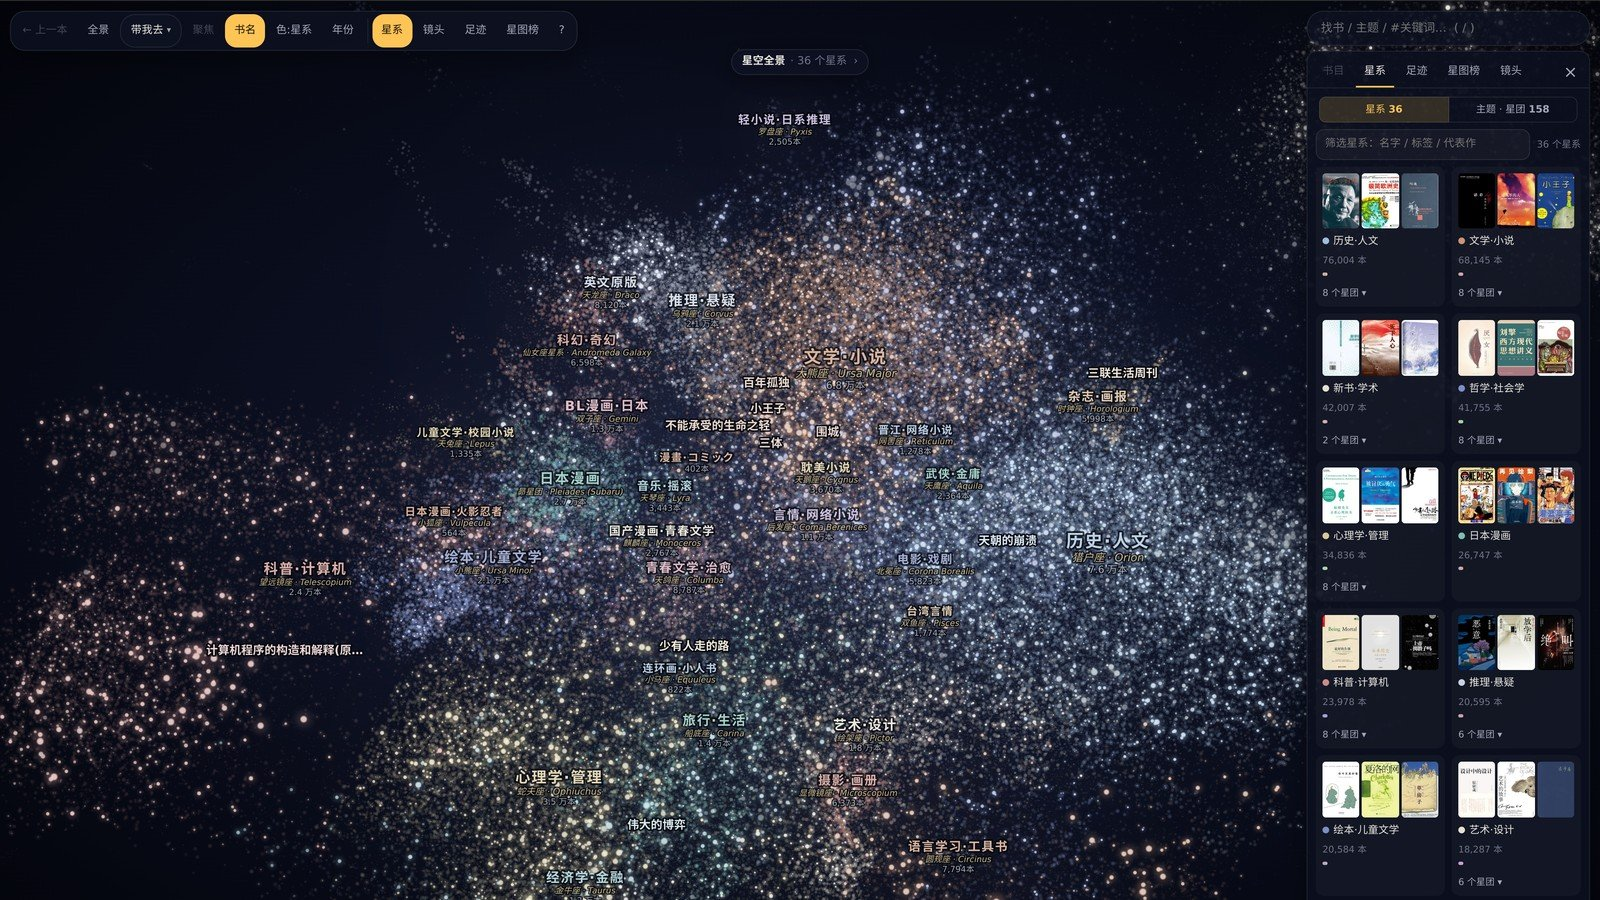
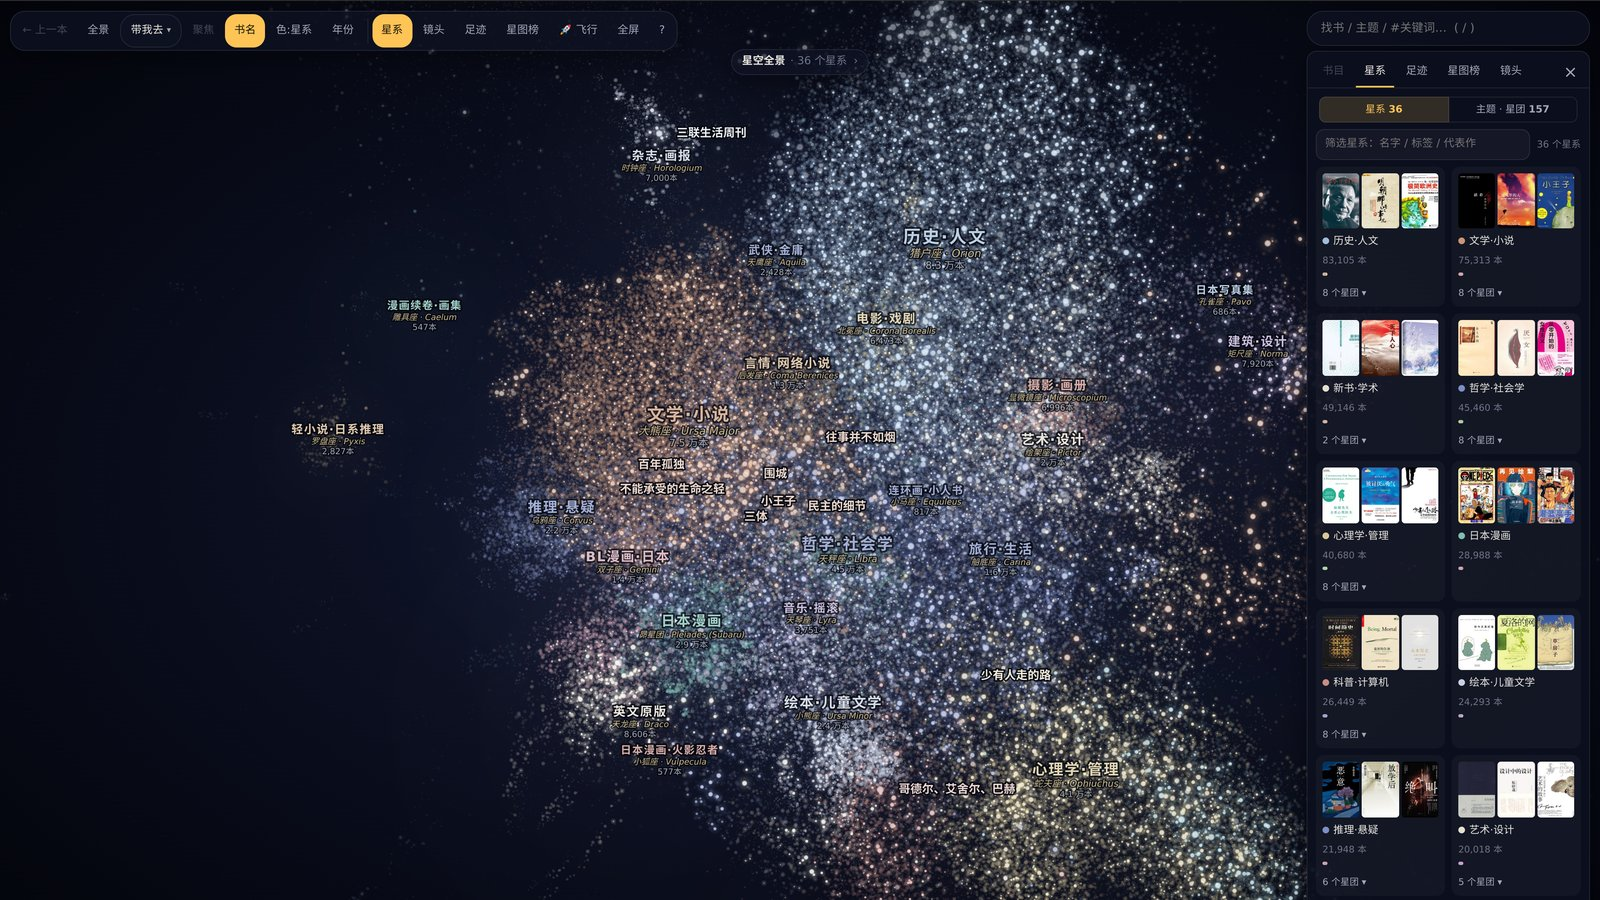
deploy: lanbing510/lanbing510-blog@8f34a5e238fb0be5f6edd81267c7c62284a83b20

diff --git a/2026/10/19/WanShuTiaoYiGalaxy2.html b/2026/10/19/WanShuTiaoYiGalaxy2.html
@@ -8,7 +8,7 @@
   <meta name="keywords" content="万书挑一，书海星空书单，好书指数，书单，豆瓣">
 
 
-  <meta name="description " content="年度读书总结：导入豆瓣书架，读过的书在 54 万本书的星空里按时间一本本亮起来、一键录成视频，再长成一棵阅读年轮，生成分享海报。">
+  <meta name="description " content="年度读书总结：导入豆瓣书架，读过的书在 60 万本书的星空里按时间一本本亮起来、一键录成视频，再长成一棵阅读年轮，生成分享海报。">
 
 
 <!--Https -> Http, Https Will Reuslt In Errors With Busuanzi -->
@@ -3030,9 +3030,9 @@ var _hmt = _hmt || [];
       
       <p>年底了，很多人在做年度总结。读过的书，也可以有一份。</p>
 
-<p>下面这段是我十年读过的书：在 54 万本书组成的星空里，按读完的时间一本本亮起来。它是一键录出来的，原片是 1920×1080 的视频，可以直接发朋友圈。</p>
+<p>下面这段是我这十几年读过的书：在 60 万本书组成的星空里，按读完的时间一本本亮起来。它是一键录出来的，原片是 1920×1080 的视频，可以直接发朋友圈。</p>
 
-<p><img src="/public/img/posts/wanshutiaoyi/galaxy2/rec169g_v4.webp" width="800px"> </img></p>
+<p><img src="/public/img/posts/wanshutiaoyi/galaxy2/rec169g_1101.webp" width="800px"> </img></p>
 
 <p>还有一棵阅读年轮：一年一圈，读得多的那年颜色就深。这是我十几年的书架，一年一年长出来的样子：</p>
 
@@ -3090,27 +3090,27 @@ var _hmt = _hmt || [];
 
 <h2>第三步：在星空里回放你读过的书</h2>
 
-<p>书海星空是一张 54 万本书的星图（后面细说）。导入书架之后，打开镜头面板的「我的书架」，读过的书在星空里点亮、画上金色的圈。</p>
+<p>书海星空是一张 60 万本书的星图（后面细说）。导入书架之后，打开镜头面板的「我的书架」，读过的书在星空里点亮、画上金色的圈。</p>
 
 <p><img src="/public/img/posts/wanshutiaoyi/galaxy2/shelf_read.jpg" width="800px"> </img></p>
 
-<p>我导入了 721 本，706 本在星空里。读过的 325 本分布在 19 个星系，最常去的是心理学·管理（蛇夫座）和科普·计算机（望远镜座）。「我的」页面还有一张「我的星座」卡片，告诉你读过的书最常落在哪个星座：</p>
+<p>我导入了 723 本，709 本在星空里。读过的 325 本分布在 19 个星系，最常去的是心理学·管理（蛇夫座）和科普·计算机（望远镜座）。「我的」页面还有一张「我的星座」卡片，告诉你读过的书最常落在哪个星座：</p>
 
 <p><img src="/public/img/posts/wanshutiaoyi/galaxy2/r_me_constellation.jpg" width="800px"> </img></p>
 
 <p>面板里有一根时间滑块，拖动它，书按标记年份一年年亮起来。点「按时间回放」，镜头按你标记的日期，一本一本飞过去。走过的路线留在星空里，越早的越淡；右上角是年份，下面是那片星系的星座名。</p>
 
-<p><img src="/public/img/posts/wanshutiaoyi/galaxy2/replay.gif" width="800px"> </img></p>
+<p><img src="/public/img/posts/wanshutiaoyi/galaxy2/replay.webp" width="800px"> </img></p>
 
 <p>回放里能看出一个人读书的轨迹：我 2015 年那一段，镜头在蛇夫座（心理学·管理）和望远镜座（科普·计算机）之间来回跳，一会儿《影响力》，一会儿《C++编程思想》。</p>
 
 <p><strong>回放可以一键录成视频</strong>：竖屏、方形、横屏三种画幅，「精华」挑约 30 秒的代表书，「完整」把区间里的书都走一遍。镜头可以选「全局」（开头那段，整片星空不动，书一本本亮起来）或「跟随」（和现场回放一样一本本飞）。左下角是封面、书名和读过的日期，右上角是年份和星座名。录好直接下载成 MP4，发朋友圈或微信群都行。</p>
 
-<p><img src="/public/img/posts/wanshutiaoyi/galaxy2/rec169f_v4.webp" width="800px"> </img></p>
+<p><img src="/public/img/posts/wanshutiaoyi/galaxy2/rec169f_1101.webp" width="800px"> </img></p>
 
-<h2>一键分享：一个链接，一张海报</h2>
+<h2>一键分享：一个链接，一张「星空年轮」海报</h2>
 
-<p>年轮页右上角点「分享」，会生成一个公开链接和海报：横版是发链接时的预览卡片，另有一张竖版的，适合发朋友圈和小红书。海报上有二维码，扫码就能看到你的年轮（知乎不让图里放二维码，下面这张示意图把它去掉了）。</p>
+<p>年轮页右上角点「分享」，会生成一个公开链接和一张「星空年轮」海报：左边是你读过的书在 60 万本书的星空里的位置，右边是年轮和几个数字。横版是发链接时的预览卡片，另有一张竖版的，适合发朋友圈和小红书。海报上有二维码，扫码就能看到你的年轮（知乎不让图里放二维码，下面这张示意图把它去掉了）。没开书海星空的账号，海报只有年轮，叫「阅读年轮」。</p>
 
 <p><img src="/public/img/posts/wanshutiaoyi/galaxy2/r_poster_landscape_zh.jpg" width="800px"> </img></p>
 
@@ -3118,21 +3118,21 @@ var _hmt = _hmt || [];
 
 <h2>这片星空本身，也值得逛一逛</h2>
 
-<p>书海星空把豆瓣上几十万本书之间「读过这本的人也喜欢」的关系拿出来，让读者重合的书互相吸引，算出每本书在三维空间里的位置，画成一张能飞进去逛的星图。现在是 54 万本书、462 万条关系。</p>
+<p>书海星空把豆瓣上几十万本书之间「读过这本的人也喜欢」的关系拿出来，让读者重合的书互相吸引，算出每本书在三维空间里的位置，画成一张能飞进去逛的星图。现在是 60 万本书、511 万条关系。</p>
 
 <p><img src="/public/img/posts/wanshutiaoyi/galaxy2/overview.jpg" width="800px"> </img></p>
 
-<p><strong>36 个星系，每个都有星座名。</strong>读者口味相近的书会自己聚成一团：历史·人文是猎户座，文学·小说是大熊座，心理学·管理是蛇夫座，科普·计算机是望远镜座，2020 年以后的新书聚成的那一团是煤袋星云。点工具栏的「星系」，右边是 36 张卡片，大星系下面还能展开几个「星团」（一共 158 个），点星团，镜头直接飞过去。</p>
+<p><strong>36 个星系，每个都有星座名。</strong>读者口味相近的书会自己聚成一团：历史·人文是猎户座，文学·小说是大熊座，心理学·管理是蛇夫座，科普·计算机是望远镜座，2020 年以后的新书聚成的那一团是煤袋星云。点工具栏的「星系」，右边是 36 张卡片，大星系下面还能展开几个「星团」（一共 157 个），点星团，镜头直接飞过去。</p>
 
 <p><img src="/public/img/posts/wanshutiaoyi/galaxy2/guide_cards.jpg" width="800px"> </img></p>
 
-<p><strong>AI 主题镜头：整片星空只为一个主题亮。</strong>星系是按「谁和谁一起被读」聚出来的，不一定等于书讲的是什么。所以我让 AI 读了 32 万本有评分的书，按统一的标准打上主题。点工具栏的「镜头」，选一个主题，属于它的书全部亮起，其余的压暗成背景。选「心理学」，亮起来 5,697 本，大半挤在蛇夫座；换成「计算机与技术」，亮的是左边望远镜座那一片；换成「历史」，亮的是右边猎户座。</p>
+<p><strong>AI 主题镜头：整片星空只为一个主题亮。</strong>星系是按「谁和谁一起被读」聚出来的，不一定等于书讲的是什么。所以我让 AI 读了 32 万本有评分的书，按统一的标准打上主题。点工具栏的「镜头」，选一个主题，属于它的书全部亮起，其余的压暗成背景。选「心理学」，亮起来 5,721 本，大半挤在右下角的蛇夫座（心理学·管理）；换成「计算机与技术」，亮起来 7,262 本，挤在蛇夫座下方那一小片；换成「历史」，亮起来 2.9 万本，铺满上方的猎户座（历史·人文）。</p>
 
-<p><img src="/public/img/posts/wanshutiaoyi/galaxy2/lens.gif" width="800px"> </img></p>
+<p><img src="/public/img/posts/wanshutiaoyi/galaxy2/lens.webp" width="800px"> </img></p>
 
-<p><strong>搜一本书，顺着「也读」一路飞。</strong>右上角搜「三体」，镜头飞到它身边，被它推荐、推荐它的几百本书同时连上线，右边弹出书卡，下面是「读过的人也读」前 5 本。点其中任何一本，镜头就飞过去。我从《三体》点到《球状闪电》，再点到《超新星纪元》，三次点击走完了刘慈欣的几本代表作。</p>
+<p><strong>搜一本书，顺着「也读」一路飞。</strong>右上角搜「三体」，镜头飞到它身边，被它推荐、推荐它的几百本书同时连上线，右边弹出书卡，下面是「读过的人也读」前 5 本。点其中任何一本，镜头就飞过去。我从《三体》点到《球状闪电》，再点到《流浪地球》，三次点击走完了刘慈欣的几本代表作。</p>
 
-<p><img src="/public/img/posts/wanshutiaoyi/galaxy2/search.gif" width="800px"> </img></p>
+<p><img src="/public/img/posts/wanshutiaoyi/galaxy2/search.webp" width="800px"> </img></p>
 
 <p><strong>飞行模式：开着飞船在书海里逛。</strong>点工具条上的「🚀 飞行」（电脑按 V 也行），鼠标转向，WASD 驾驶，按住 Shift 加速。速度跟着周围星星的疏密走：外围空旷的地方飞得快，一进星团就自动慢下来，书名一本本从身边掠过。准星对准一颗星，就会弹出书名、所在星系和评分。手机上也能飞，电脑上体验最好。</p>
 
@@ -3140,7 +3140,7 @@ var _hmt = _hmt || [];
 
 <p><strong>看星空一年年长出来。</strong>工具栏点「年份」，按「播放」，星空从 1900 年开始逐年点亮。最早成片亮起来的是连环画·小人书和武侠·金庸，最晚的是晋江·网络小说，大部分出版在 2022 年前后（这里是豆瓣那个版本的出版年）。</p>
 
-<p><img src="/public/img/posts/wanshutiaoyi/galaxy2/year.gif" width="800px"> </img></p>
+<p><img src="/public/img/posts/wanshutiaoyi/galaxy2/year.webp" width="800px"> </img></p>
 
 <p>图里没有编辑挑选，也没有推荐算法替你猜。每条线都来自豆瓣书页上「喜欢读这本书的人也喜欢」那一栏，位置是这些关系自己推出来的，星系和星团是关系最紧的书自己聚出来的。AI 主题是另一套独立的标签，只用来点亮和上色，不影响书的位置。</p>
 

diff --git a/2026/10/16/WanShuTiaoYiRings.html b/2026/10/16/WanShuTiaoYiRings.html
@@ -3030,7 +3030,7 @@ var _hmt = _hmt || [];
       
       <p>在豆瓣标了十几年书，「读过」「想读」攒了几百本，但我从来没见过它们放在一起是什么样子。豆瓣给的是一页页的列表，按时间倒序，翻到第 20 页就不想翻了。</p>
 
-<p>所以我给万书挑一做了两样东西：一个是<strong>阅读年轮</strong>，一年一圈，读得多的那年颜色就深；一个是<strong>书海星空里的「我」</strong>，把读过的书在 54 万本书组成的星图里一颗颗点亮，再按时间顺序飞一遍，还能录成视频。</p>
+<p>所以我给万书挑一做了两样东西：一个是<strong>阅读年轮</strong>，一年一圈，读得多的那年颜色就深；一个是<strong>书海星空里的「我」</strong>，把读过的书在 60 万本书组成的星图里一颗颗点亮，再按时间顺序飞一遍，还能录成视频。</p>
 
 <p>先看结果，这是我自己的书架，一年一年长出来的样子：</p>
 
@@ -3065,13 +3065,13 @@ var _hmt = _hmt || [];
 
 <p>还有一个有点扎心的栏目叫「想读最久还没读」。我的第一名是《编码的奥秘》，2015 年 4 月标的想读，已经 11 年了。</p>
 
-<h2>空间：在 54 万本书的星空里找到自己</h2>
+<h2>空间：在 60 万本书的星空里找到自己</h2>
 
-<p>书海星空把豆瓣上「喜欢这本书的人也喜欢」的关系连起来，54 万本书自己聚成了 36 个星系，每个星系配了一个星座名。经常被一起读的书会挨在一起，所以星系是读者「读」出来的，不是谁分的类。</p>
+<p>书海星空把豆瓣上「喜欢这本书的人也喜欢」的关系连起来，60 万本书自己聚成了 36 个星系，每个星系配了一个星座名。经常被一起读的书会挨在一起，所以星系是读者「读」出来的，不是谁分的类。</p>
 
 <p><img src="/public/img/posts/wanshutiaoyi/rings/g2_overview.jpg" width="800px"> </img></p>
 
-<p>导入书架之后，打开镜头面板的「我的书架」，读过的书在星空里点亮、画上金色的圈。我导入了 721 本，706 本在星空里；读过的 325 本分布在 19 个星系，最常去的是心理学·管理（蛇夫座）和科普·计算机（望远镜座）。</p>
+<p>导入书架之后，打开镜头面板的「我的书架」，读过的书在星空里点亮、画上金色的圈。我导入了 723 本，709 本在星空里；读过的 325 本分布在 19 个星系，最常去的是心理学·管理（蛇夫座）和科普·计算机（望远镜座）。</p>
 
 <p><img src="/public/img/posts/wanshutiaoyi/rings/g2_shelf_read.jpg" width="800px"> </img></p>
 
@@ -3081,19 +3081,19 @@ var _hmt = _hmt || [];
 
 <p>最好玩的是<strong>按时间回放</strong>：镜头按你标记的日期，一本一本飞过去。走过的路线留在星空里，越早的越淡；右上角是年份，下面是那片星系的星座名。</p>
 
-<p><img src="/public/img/posts/wanshutiaoyi/rings/g2_replay.gif" width="800px"> </img></p>
+<p><img src="/public/img/posts/wanshutiaoyi/rings/g2_replay.webp" width="800px"> </img></p>
 
 <p>回放里能看出一个人读书的轨迹：我 2015 年那一段，镜头在蛇夫座（心理学·管理）和望远镜座（科普·计算机）之间来回跳，一会儿《影响力》，一会儿《C++编程思想》。</p>
 
 <p>回放可以<strong>一键录成视频</strong>：竖屏、方形、横屏三种画幅，「精华」挑约 30 秒的代表书，「完整」把区间里的书都走一遍；镜头可以选「全局」（整片星空不动，书一本本亮起来）或「跟随」（和现场回放一样一本本飞）。录好直接下载成 MP4，发朋友圈或微信群都行。</p>
 
-<p><img src="/public/img/posts/wanshutiaoyi/rings/g2_rec169g_v4.webp" width="800px"> </img></p>
+<p><img src="/public/img/posts/wanshutiaoyi/rings/g2_rec169g_1101.webp" width="800px"> </img></p>
 
-<p>星空还有 AI 主题镜头、飞行模式、看星空一年年长出来这些玩法，都写在这篇里：<a href="https://zhuanlan.zhihu.com/p/2095577424356495498">54 万本书画成一张星图：现在能按主题点亮，还能把你读过的书回放成一段视频</a>。</p>
+<p>星空还有 AI 主题镜头、飞行模式、看星空一年年长出来这些玩法，都写在这篇里：<a href="https://zhuanlan.zhihu.com/p/2095577424356495498">60 万本书画成一张星图：现在能按主题点亮，还能把你读过的书回放成一段视频</a>。</p>
 
-<h2>一键分享</h2>
+<h2>一键分享：一个链接，一张「星空年轮」海报</h2>
 
-<p>年轮页右上角点「分享」，会生成一个公开链接和海报：横版是发链接时的预览卡片，另有一张竖版的，适合发朋友圈和小红书。海报上有二维码，扫码就能看到你的年轮（知乎不让图里放二维码，下面这张示意图把它去掉了）。</p>
+<p>年轮页右上角点「分享」，会生成一个公开链接和一张「星空年轮」海报：左边是你读过的书在 60 万本书的星空里的位置，右边是年轮和几个数字。横版是发链接时的预览卡片，另有一张竖版的，适合发朋友圈和小红书。海报上有二维码，扫码就能看到你的年轮（知乎不让图里放二维码，下面这张示意图把它去掉了）。没开书海星空的账号，海报只有年轮，叫「阅读年轮」。</p>
 
 <p><img src="/public/img/posts/wanshutiaoyi/rings/poster_landscape_zh.jpg" width="800px"> </img></p>
 
